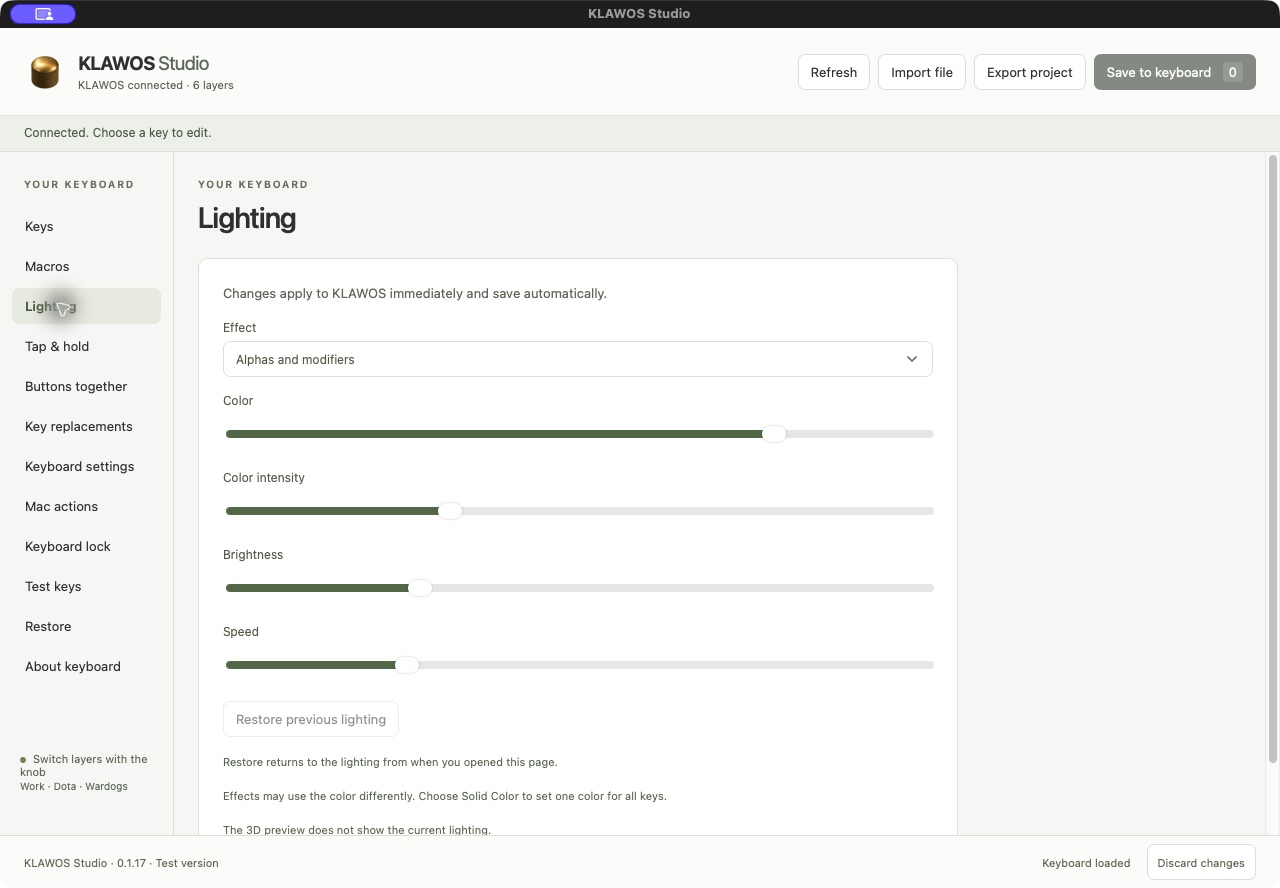
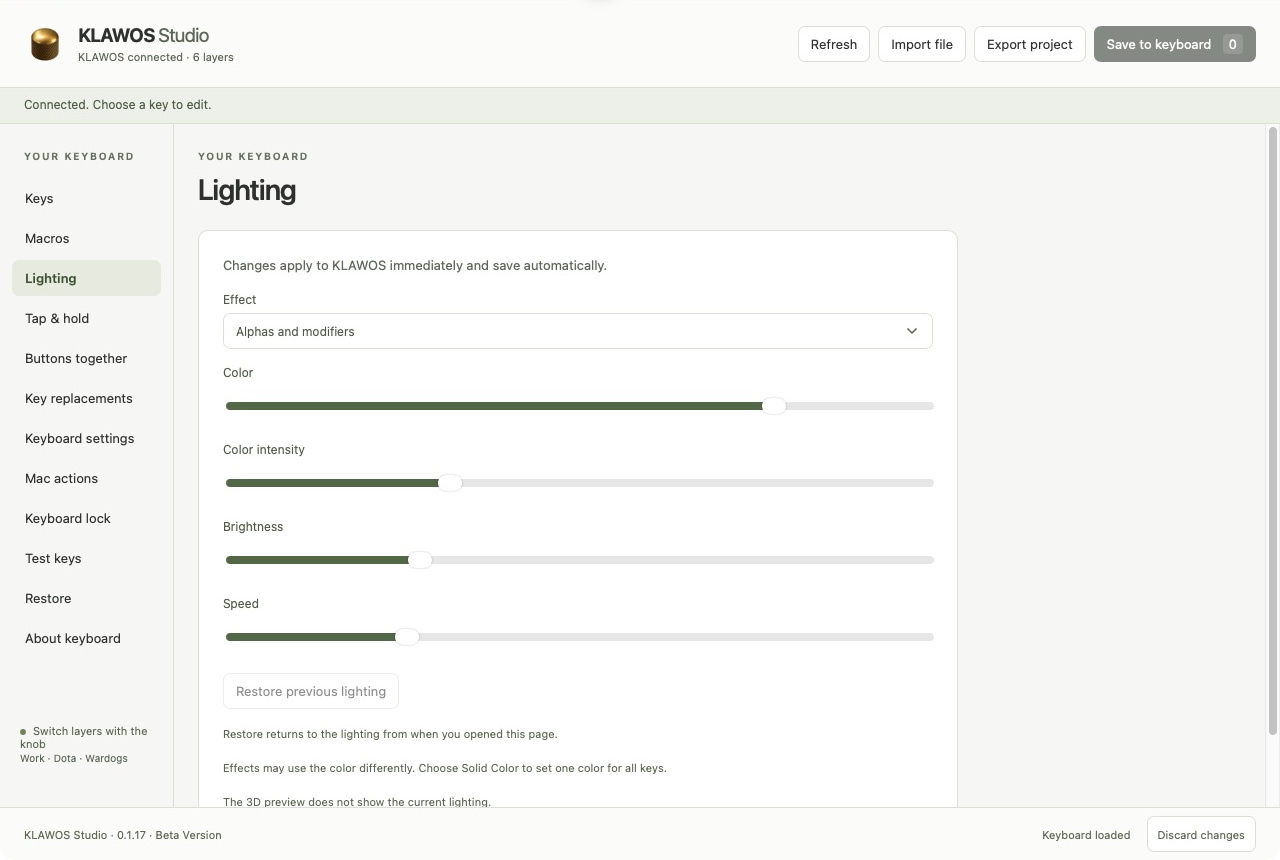
Improve knob reflections and publish app-only Beta screenshots

diff --git a/ui/board-viewer.js b/ui/board-viewer.js
@@ -5,8 +5,18 @@ export function mountBoard(container,onSelect){
  const scene=new THREE.Scene(),camera=new THREE.PerspectiveCamera(33,1,.1,100);camera.position.set(5.2,8.4,8.5);
  const renderer=new THREE.WebGLRenderer({antialias:true,alpha:true});renderer.setPixelRatio(Math.min(devicePixelRatio,2));renderer.shadowMap.enabled=true;renderer.shadowMap.type=THREE.PCFSoftShadowMap;renderer.toneMapping=THREE.ACESFilmicToneMapping;renderer.toneMappingExposure=1.35;container.prepend(renderer.domElement);
  const controls=new OrbitControls(camera,renderer.domElement);controls.target.set(0,.2,0);controls.enablePan=false;controls.minDistance=7;controls.maxDistance=17;controls.maxPolarAngle=Math.PI*.43;controls.enableDamping=false;controls.update();
- scene.add(new THREE.HemisphereLight(0xffffff,0x8d9284,3));const sun=new THREE.DirectionalLight(0xfff8eb,5);sun.position.set(-3,8,4);sun.castShadow=true;sun.shadow.mapSize.set(1024,1024);sun.shadow.camera.left=-4;sun.shadow.camera.right=4;sun.shadow.camera.top=4;sun.shadow.camera.bottom=-4;sun.shadow.normalBias=.02;scene.add(sun);const fill=new THREE.DirectionalLight(0xd9e7f0,3);fill.position.set(4,3,-4);scene.add(fill);
+ scene.add(new THREE.HemisphereLight(0xffffff,0x8d9284,3));const sun=new THREE.DirectionalLight(0xfff8eb,5);sun.position.set(-3,8,-6);sun.castShadow=true;sun.shadow.mapSize.set(1024,1024);sun.shadow.camera.left=-4;sun.shadow.camera.right=4;sun.shadow.camera.top=4;sun.shadow.camera.bottom=-4;sun.shadow.normalBias=.02;scene.add(sun);const fill=new THREE.DirectionalLight(0xd9e7f0,3);fill.position.set(4,3,-4);scene.add(fill);
+ // Softbox reflections reveal the shallow convex crown without making the knob taller.
+ const reflectionScene=new THREE.Scene();reflectionScene.background=new THREE.Color(0x242424);
+ for(const [width,height,x,y,z,strength] of [[4,6,-4,5,3,3],[1.5,4,4,2,1,2],[3,1,0,4,-4,1.5]]){
+   const panel=new THREE.Mesh(new THREE.PlaneGeometry(width,height),new THREE.MeshBasicMaterial({color:new THREE.Color(1,1,1).multiplyScalar(strength),side:THREE.DoubleSide}));
+   panel.position.set(x,y,z);panel.lookAt(0,0,0);reflectionScene.add(panel);
+ }
+ const pmrem=new THREE.PMREMGenerator(renderer),knobReflections=pmrem.fromScene(reflectionScene,.04);
+ pmrem.dispose();reflectionScene.traverse(o=>{o.geometry?.dispose();o.material?.dispose()});
+ function reflectGold(material){material.envMap=knobReflections.texture;material.envMapIntensity=.8;return material;}
  const metal=new THREE.MeshStandardMaterial({color:0xc1c5bd,metalness:.72,roughness:.27}),plate=new THREE.MeshStandardMaterial({color:0x202521,roughness:.48}),gold=new THREE.MeshStandardMaterial({color:0xd9ac48,metalness:.8,roughness:.28}),glass=new THREE.MeshPhysicalMaterial({color:0xd9e4df,metalness:0,roughness:.16,transmission:.67,transparent:true,opacity:.72,thickness:.12,ior:1.46,clearcoat:1});
+ reflectGold(gold);
  function rounded(w,d,h,r,material){const s=new THREE.Shape();const x=-w/2,y=-d/2;s.moveTo(x+r,y);s.lineTo(x+w-r,y);s.quadraticCurveTo(x+w,y,x+w,y+r);s.lineTo(x+w,y+d-r);s.quadraticCurveTo(x+w,y+d,x+w-r,y+d);s.lineTo(x+r,y+d);s.quadraticCurveTo(x,y+d,x,y+d-r);s.lineTo(x,y+r);s.quadraticCurveTo(x,y,x+r,y);const g=new THREE.ExtrudeGeometry(s,{depth:h,bevelEnabled:true,bevelSegments:3,steps:1,bevelSize:.035,bevelThickness:.035,curveSegments:8});g.rotateX(-Math.PI/2);const m=new THREE.Mesh(g,material);m.castShadow=true;m.receiveShadow=true;return m;}
  const base=rounded(4.42,4.42,.32,.24,metal);base.position.y=.05;scene.add(base);const inner=rounded(4.12,4.12,.07,.14,plate);inner.position.y=.39;scene.add(inner);
  const picking=[],keys=new Map(),procedural=[base,inner];let disposed=false,loaded=null;for(let r=0;r<4;r++)for(let c=0;c<4;c++){
@@ -19,7 +29,7 @@ export function mountBoard(container,onSelect){
      let start=0,material=-1;
      for(let i=0;i<indices.count;i+=3){const crown=Math.min(...[0,1,2].map(j=>positions.getY(indices.getX(i+j))))>=.6899,next=crown?1:0;if(next!==material){if(i>start)geometry.addGroup(start,i-start,material);start=i;material=next;}}
      geometry.addGroup(start,indices.count-start,material);
-     const recess=new THREE.MeshStandardMaterial({color:0x81612c,metalness:.8,roughness:.32});
+     const recess=reflectGold(new THREE.MeshStandardMaterial({color:0x81612c,metalness:.8,roughness:.32}));
      const body=new THREE.Mesh(geometry,[recess,gold]);body.name='Gold rounded knob';body.castShadow=true;group.add(body);for(let i=0;i<64;i++){for(const direction of [-1,1]){const points=[];for(let j=0;j<=8;j++){const y=j/8*.58+.1;const a=i/64*Math.PI*2+direction*j/8*.24;points.push(new THREE.Vector3(Math.cos(a)*.425,y,Math.sin(a)*.425));}const ridge=new THREE.Mesh(new THREE.TubeGeometry(new THREE.CatmullRomCurve3(points),8,.009,3,false),gold);group.add(ridge);}}}
    else {const foot=rounded(.71,.71,.13,.06,new THREE.MeshStandardMaterial({color:0xaebdb4,roughness:.5}));group.add(foot);const stem=new THREE.Mesh(new THREE.BoxGeometry(.28,.3,.28),new THREE.MeshStandardMaterial({color:0x92b3a2,roughness:.3}));stem.position.y=.24;group.add(stem);const cap=rounded(.86,.86,.38,.11,glass);cap.position.y=.14;group.add(cap);const rim=rounded(.68,.68,.025,.11,new THREE.MeshPhysicalMaterial({color:0xf0f7f3,transparent:true,opacity:.35,roughness:.2}));rim.position.y=.54;group.add(rim);}
    group.traverse(obj=>{if(obj.isMesh)picking.push(obj)});
@@ -29,7 +39,7 @@ export function mountBoard(container,onSelect){
  new GLTFLoader().load(new URL('./models/klawos.glb',import.meta.url).href,gltf=>{
    if(disposed){gltf.scene.traverse(o=>o.geometry?.dispose());return;}
    loaded=gltf.scene;for(const item of procedural)scene.remove(item);keys.clear();picking.length=0;
-   loaded.traverse(obj=>{if(obj.userData.inputID)keys.set(obj.userData.inputID,obj);if(obj.isMesh){obj.castShadow=true;obj.receiveShadow=true;picking.push(obj);}});scene.add(loaded);highlight.visible=false;render();
+   loaded.traverse(obj=>{if(obj.userData.inputID)keys.set(obj.userData.inputID,obj);if(obj.isMesh){obj.castShadow=true;obj.receiveShadow=true;for(const material of Array.isArray(obj.material)?obj.material:[obj.material]){if(['Gold knob','Knurl recesses'].includes(material.name))reflectGold(material);}picking.push(obj);}});scene.add(loaded);highlight.visible=false;render();
  },undefined,()=>{/* Procedural board and keyboard controls remain usable offline. */});
  const ray=new THREE.Raycaster();let pointerStart;
  const pointerdown=e=>pointerStart=[e.clientX,e.clientY];
@@ -37,5 +47,5 @@ export function mountBoard(container,onSelect){
  renderer.domElement.addEventListener('pointerdown',pointerdown);renderer.domElement.addEventListener('pointerup',pointerup);
  function render(){renderer.render(scene,camera)}controls.addEventListener('change',render);
  const resize=new ResizeObserver(()=>{camera.aspect=container.clientWidth/container.clientHeight;camera.updateProjectionMatrix();renderer.setSize(container.clientWidth,container.clientHeight);render()});resize.observe(container);
- return {select(id){const obj=keys.get(id);highlight.visible=!!obj;if(obj)highlight.box.setFromObject(obj);render()},view(top){camera.position.set(...(top?[0,12,.001]:[5.2,8.4,8.5]));controls.update();render()},dispose(){disposed=true;resize.disconnect();controls.dispose();renderer.dispose();scene.traverse(o=>{o.geometry?.dispose();if(o.material){for(const m of Array.isArray(o.material)?o.material:[o.material])m.dispose()}});renderer.domElement.remove()}};
+ return {select(id){const obj=keys.get(id);highlight.visible=!!obj;if(obj)highlight.box.setFromObject(obj);render()},view(top){camera.position.set(...(top?[0,12,.001]:[5.2,8.4,8.5]));controls.update();render()},dispose(){disposed=true;resize.disconnect();controls.dispose();knobReflections.dispose();renderer.dispose();scene.traverse(o=>{o.geometry?.dispose();if(o.material){for(const m of Array.isArray(o.material)?o.material:[o.material])m.dispose()}});renderer.domElement.remove()}};
 }

diff --git a/ui/index.html b/ui/index.html
@@ -2,6 +2,6 @@
 <body><header><div class="brand"><img class="brand-icon" src="assets/gold-knob.png" alt="" aria-hidden="true"><div><strong>KLAWOS <span>Studio</span></strong><small id="connection">Connect your keyboard to begin</small></div></div><div class="header-actions"><button id="read">Connect</button><button id="import">Import file</button><button id="export">Export project</button><button class="primary" id="apply" disabled>Save to keyboard <span id="count">0</span></button></div></header>
 <div id="notice" role="status" aria-live="polite">Key changes stay on this Mac until you save to keyboard. Lighting saves automatically.</div>
 <div class="workspace"><nav aria-label="Configuration"><p class="eyebrow">YOUR KEYBOARD</p><div id="tabs"></div><div class="nav-bottom"><span class="dot"></span> Switch layers with the knob<p>Work · Dota · Wardogs</p></div></nav><main><div class="page-heading"><div><p class="eyebrow">YOUR KEYBOARD</p><h1 id="heading">Your keys</h1></div><div id="layer-control"><label for="layer">Edit layer</label><select id="layer"></select></div></div><section id="content"></section></main><aside id="inspector"><p class="eyebrow">SELECTED KEY</p><h2>Choose a key</h2><p>Select a key on the board or from the list below.</p></aside></div>
-<footer><span>KLAWOS Studio · 0.1.17 · Test version</span><span id="draft-status">Not connected</span><button id="discard">Discard changes</button></footer>
+<footer><span>KLAWOS Studio · 0.1.17 · Beta Version</span><span id="draft-status">Not connected</span><button id="discard">Discard changes</button></footer>
 <dialog id="review"><div class="dialog-head"><h2>Review your changes</h2><button id="close-review" aria-label="Close review">×</button></div><p>We’ll back up your current settings before saving.</p><div id="change-list"></div><div class="dialog-actions"><button id="cancel-apply">Keep editing</button><button class="primary" id="confirm-apply">Save to keyboard</button></div></dialog>
 <datalist id="keycodes"></datalist><script type="module">import("./app.js").catch(error=>{document.getElementById("notice").textContent="The editor could not open. Quit KLAWOS Studio and try again.";});</script></body></html>

diff --git a/art/board/asset-review.md b/art/board/asset-review.md
@@ -6,7 +6,7 @@ Built from Pippo's appearance instructions and the supplied hardware references:
 
 Dimensions, wall thickness, optical properties and underside details are estimates, not measured CAD. No desktop/photo background or image metadata is included in the asset. Blue/purple illumination in references is not represented as a firmware capability.
 
-Topology tests pass. Initial procedural rendering was visually checked in the native app. Final GLB appearance and Pippo's approval remain pending; the Mac locked before that check.
+Topology and control-map tests pass. See the dated visual checks below for the current model and rendering.
 
 ## Rounded knob update — 23 October 2026
 
@@ -15,3 +15,13 @@ The approved icon and actual hardware photos guide a continuous low convex crown
 Both the editable Blender source/export and procedural Three.js fallback use the same profile. Blender 5.2.1 LTS rebuilt the `.blend` and `.glb`. The fallback has matching body/crown material regions.
 
 Validation: existing model metadata/control-map tests passed; JavaScript syntax and UI contract checks passed. Independent geometry review found a closed outward-facing surface, valid normals, matching normals across the gold/recess boundary, and complete fallback material groups. All sixteen key IDs and eighteen control-map entries are preserved. Both model paths were visually checked; clicking the new knob in the installed app selected Press knob. The installed asset hashes matched the source, strict signatures passed with normal macOS certificate access, and the helper retained both input permissions. The screenshot gallery in `docs/SCREENSHOTS.md` was captured after this installation.
+
+## Crown lighting correction — 23 October 2026
+
+The first screenshots still made the crown look flat. Read-only inspection confirmed that the running permanent app contained the current model and viewer, started after installation, and had no cached asset responses. The two directional lights put the strongest reflections at the rim in the default view; rotating the same model moved the highlight onto the crown and revealed its curvature.
+
+The main light now illuminates the crown from behind, and a small locally generated softbox environment gives only the knob materials broader reflections. The low crown geometry and approved icon are unchanged. Temporary environment geometry is disposed after generation, and the reflection target is released with the viewer.
+
+The default-view comparison visibly shows a low convex crown in both the packaged model and procedural fallback. Independent visual review found no blocking crown mismatch. The material remains smoother than the brushed surface of the icon; these are separate 3D and raster representations.
+
+Installed verification: the permanent app displays the revised crown and “Beta Version.” Installed viewer, markup, model and icon bytes match the checkout. The stable signature verifies; both input permissions remain enabled, Mac actions are on, and the editor has zero pending changes. All six gallery images were recaptured from that app and cropped only to remove the 28-pixel macOS title bar.

diff --git a/docs/SCREENSHOTS.md b/docs/SCREENSHOTS.md
@@ -1,6 +1,6 @@
 # KLAWOS Studio screenshots
 
-Captured from the installed Mac app on 23 October 2026, after updating the board, logo and app icon to the low rounded gold knob. These are the actual app screens, with existing settings. Taking the screenshots did not save any new keyboard assignments or lighting values.
+Captured from the installed Mac app on 23 October 2026, after updating the board, logo and app icon to the low rounded gold knob. These are the actual app screens, with existing settings. Captures include only the app content; the macOS title bar is cropped out. Taking the screenshots did not save any new keyboard assignments or lighting values.
 
 ## Keys and shortcuts
 
